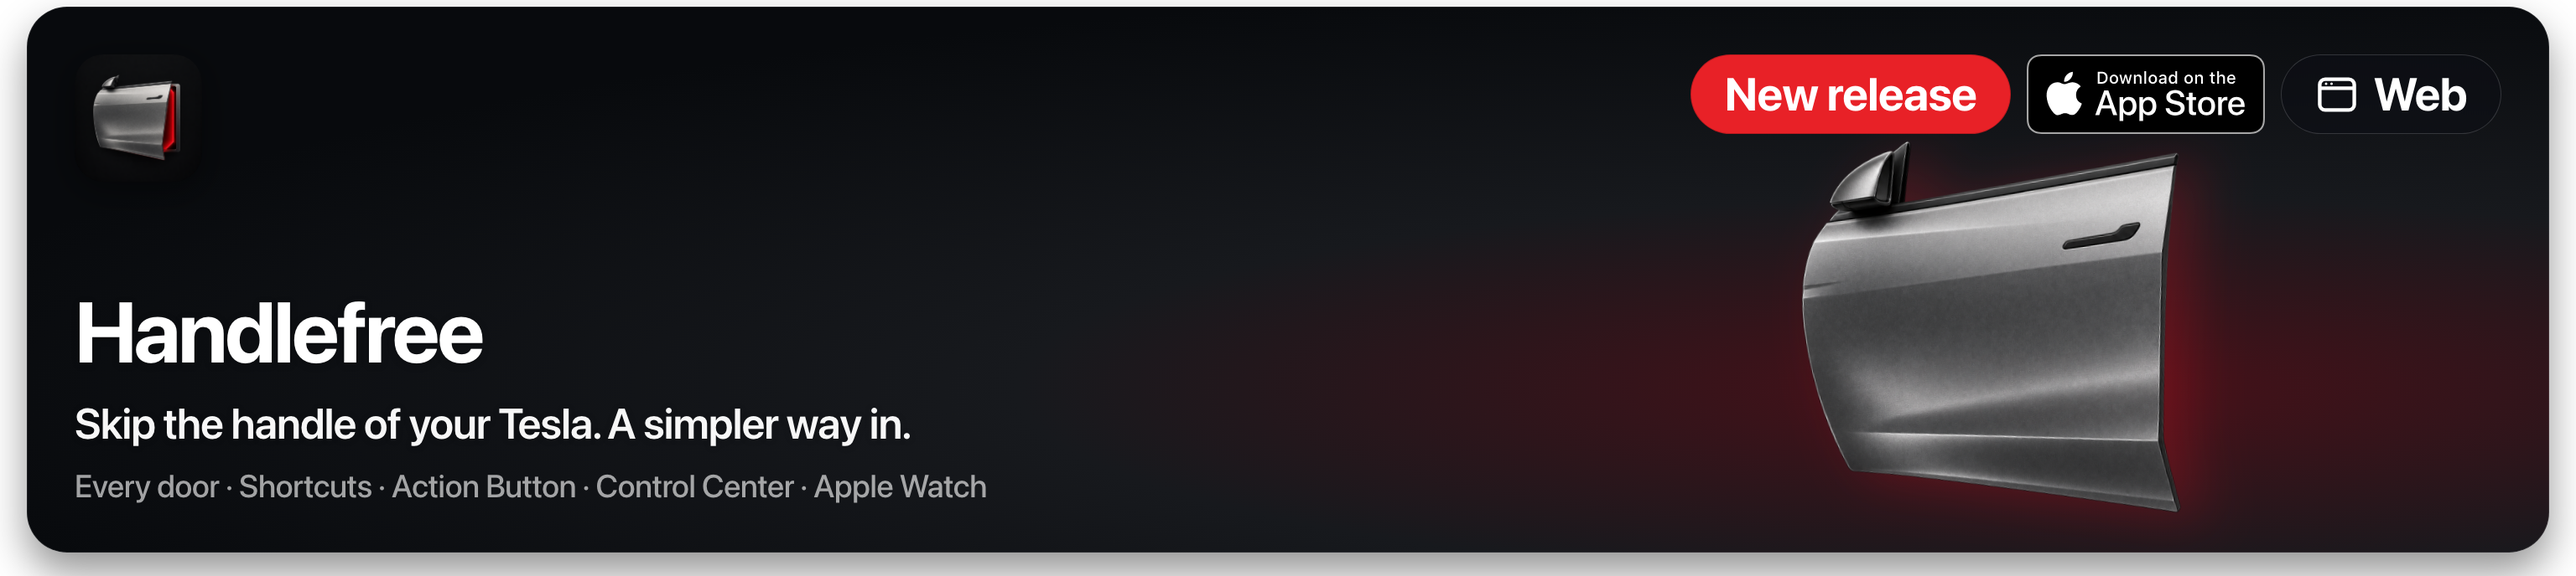
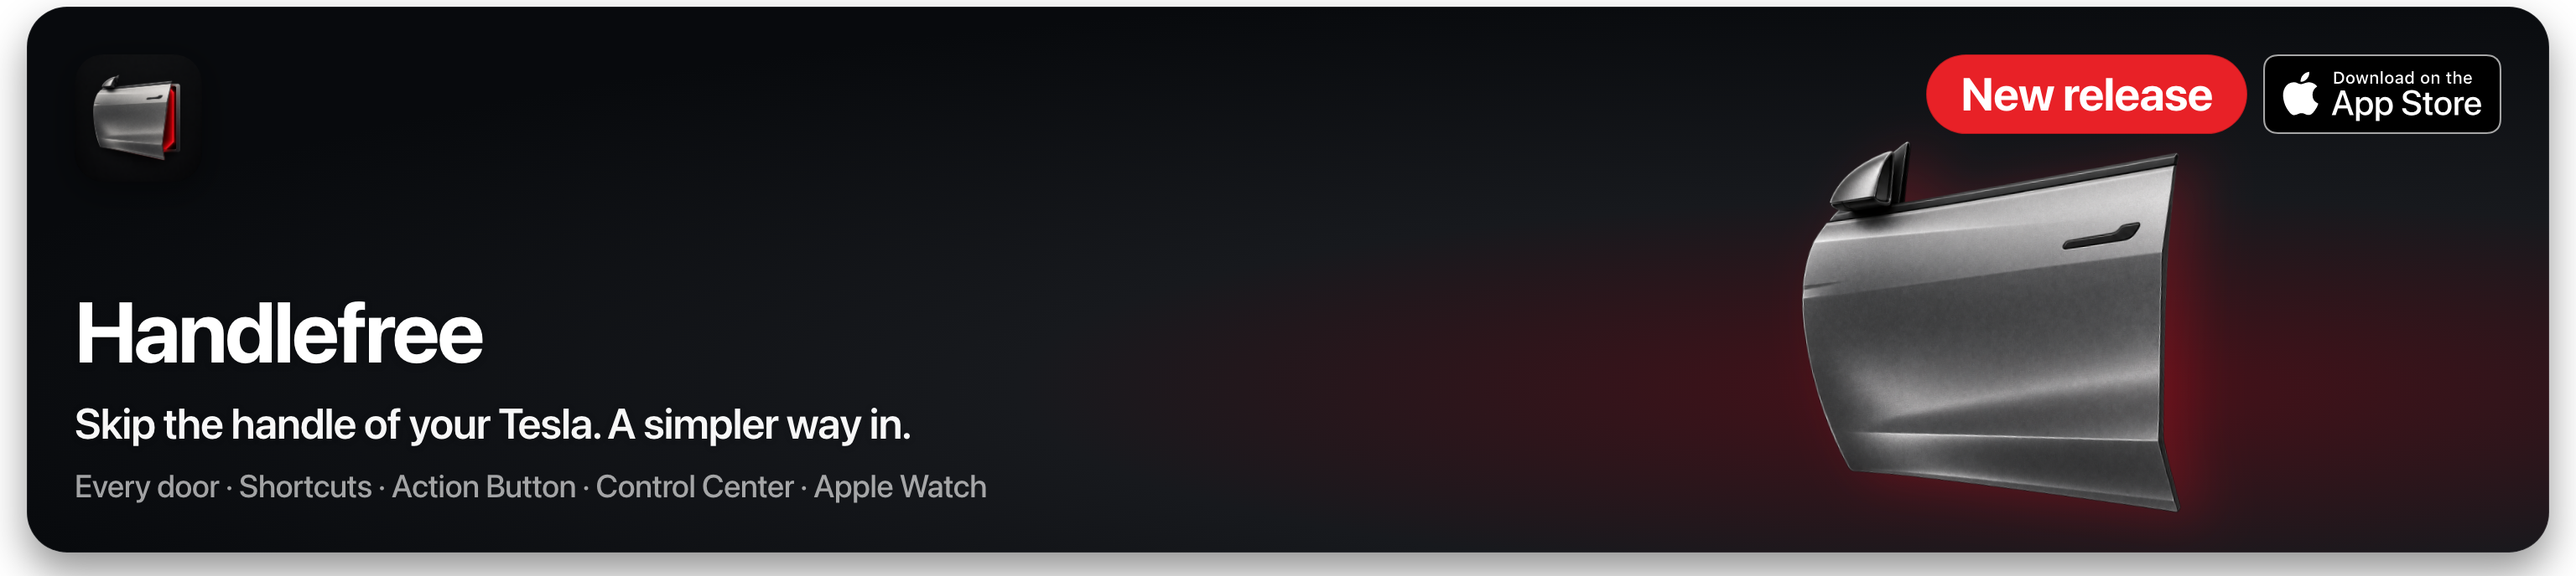
feat(profile): drop the Web chip from the Handlefree tile

Changed region(s): [[0.6562, 0.0916, 0.9688, 0.2442]]

diff --git a/AGENTS.md b/AGENTS.md
@@ -2,4 +2,4 @@
 
 Preserve unrelated product tiles and links. Render selected tiles with scripts/build-bento.mjs; approved icon sources live in docs/icons. Use tile-handlefree to regenerate only Handlefree (formerly Teslatch; never reintroduce that name). Its full-width row is the first row of the bento (owner request, 9 October 2026) and links to https://handlefree.app/.
 
-Handlefree is on the App Store since 7 October 2026: its tile shows a red "New release" badge plus App Store and Web chips, no beta label, and the tagline "Skip the handle of your Tesla. A simpler way in." Tesla is named only descriptively; the README alt text carries the non-affiliation note. Web refers to the product site, not browser vehicle control. App source is private. Check node --check, generated image appearance, Markdown links and git diff --check before publishing.
+Handlefree is on the App Store since 7 October 2026: its tile shows a red "New release" badge and Apple's official "Download on the App Store" badge, no beta label, and the tagline "Skip the handle of your Tesla. A simpler way in." Tesla is named only descriptively; the README alt text carries the non-affiliation note. Handlefree is an iPhone app: no Web chip on its tile (the site is not a web app). App source is private. Check node --check, generated image appearance, Markdown links and git diff --check before publishing.

diff --git a/CHANGELOG.md b/CHANGELOG.md
@@ -2,6 +2,7 @@
 
 ## 2026-10-09
 
+- Removed the Web chip from the Handlefree tile: it is an iPhone app, and handlefree.app is its website, not a web app.
 - Star badges now list the six most-starred public repos, highest first: Easy Write, Mac 4 Breakfast, Tokens 4 Breakfast, Chime 4 Breakfast, Minimizer, Unfold AI. Counts are live from shields.io; the order is set by hand.
 - The Handlefree tile now shows Apple's official "Download on the App Store" badge (docs/icons/appstore-badge.svg, unmodified, the same file as on handlefree.app) instead of the text chip. build-bento.mjs gained image badges (`{ image, alt }`) for official store artwork.
 - Handlefree moved to the first row of the bento (owner request), with a red "New release" badge beside App Store and Web and the tagline "Skip the handle of your Tesla. A simpler way in." Alt text adds the non-affiliation note.
